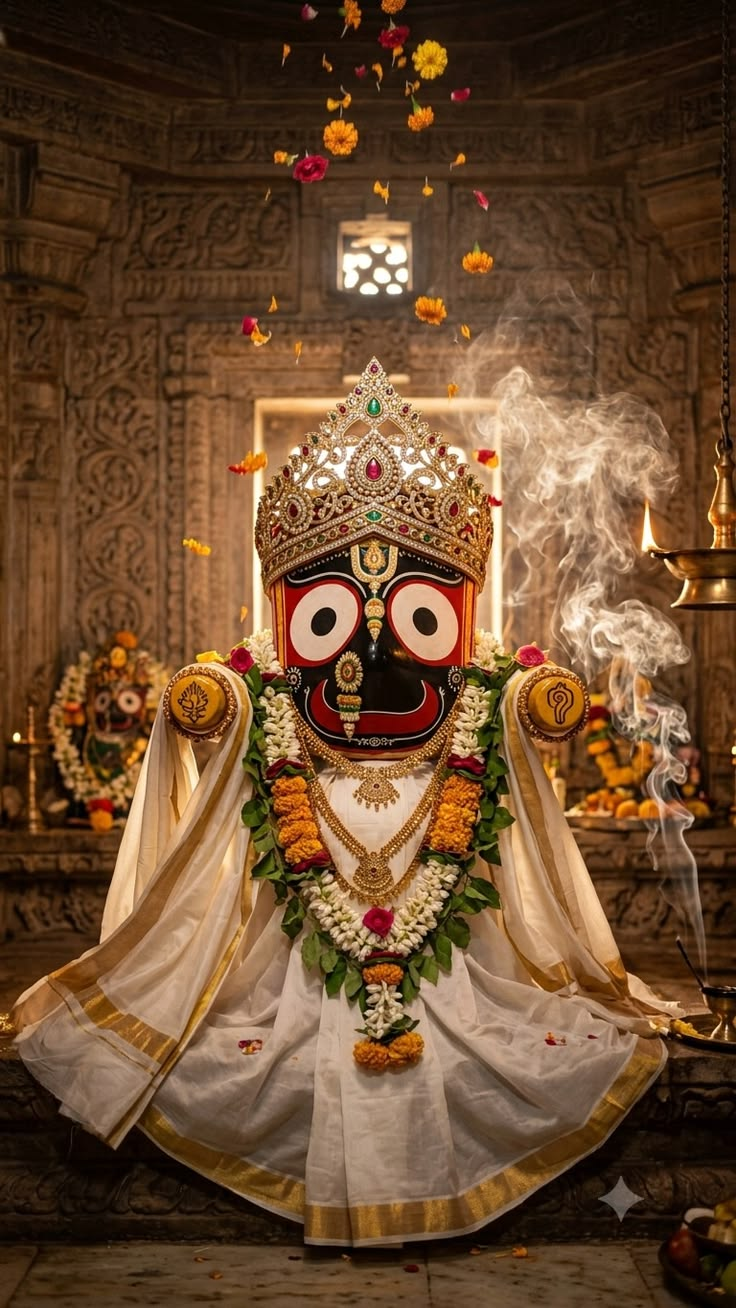
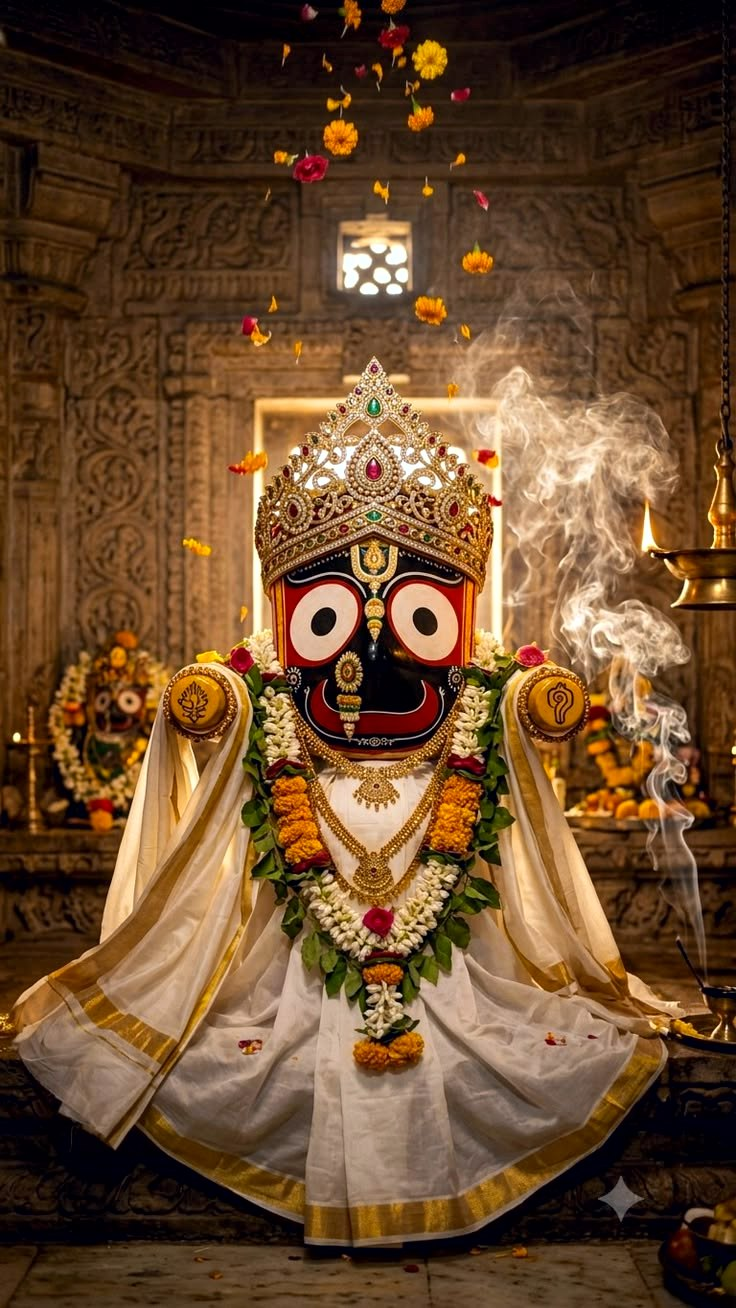
Opening: temple and Jagannath photos now read as one scene
- Jagannath photo colour-matched to the temple photo (Reinhard colour
  transfer in Lab, measured on the temple's stone and floor, not its sky):
  warmer golden sandstone and sunlit cream robes; face and colours keep
  their character. The invitation medallion uses the same file.
- Lamp-lit sanctum: soft dark edges on the inner scene, so it reads as lit
  from within and seen through the temple's dark doorway
- After the doors open, the camera moves all the way in until the sanctum
  fills the screen, just like the temple did (no small rectangle on dark)
- Medallion lift-out clip uses the doorway's on-screen width; landing
  still pixel-exact

diff --git a/src/components/opening/OpeningSequence.tsx b/src/components/opening/OpeningSequence.tsx
@@ -158,7 +158,7 @@ export function OpeningSequence({ targetRef, onReveal, onDone }: OpeningSequence
         el.flyer.style.opacity = "1";
         // Start clipped to the doorway width (the circle can be wider than a
         // narrow door), then open out to the full medallion as it lifts away.
-        const doorHalf = el.sanctum.offsetWidth / 2;
+        const doorHalf = Math.min(el.sanctum.getBoundingClientRect().width, window.innerWidth) / 2;
         const startClip = `circle(${Math.min(50, (doorHalf / from.size) * 100).toFixed(2)}% at 50% 50%)`;
         el.flyerArt.style.clipPath = startClip;
 
@@ -245,7 +245,9 @@ export function OpeningSequence({ targetRef, onReveal, onDone }: OpeningSequence
       // Doors appear exactly over the photo's doorway…
       const startScale = (door.width * zoom) / el.sanctum.offsetWidth;
       const small = `translate(-50%, -50%) scale(${startScale})`;
-      const full = "translate(-50%, -50%) scale(1)";
+      // Move all the way in: the sanctum ends up filling the screen, like the temple did.
+      const cover = Math.max(window.innerWidth / el.sanctum.offsetWidth, window.innerHeight / el.sanctum.offsetHeight) * 1.02;
+      const full = `translate(-50%, -50%) scale(${cover})`;
       await play(el.sanctum, [{ opacity: 0, transform: small }, { opacity: 1, transform: small }], {
         duration: 350,
         easing: "ease-out",
@@ -256,7 +258,7 @@ export function OpeningSequence({ targetRef, onReveal, onDone }: OpeningSequence
 
       // …then the camera moves in through the doorway to the deity.
       // Camera and doorway grow by the same factor, so they stay locked together.
-      const grow = 1 / startScale;
+      const grow = cover / startScale;
       await Promise.all([
         play(el.camera, [{ transform: `${shift} scale(${zoom})` }, { transform: `${shift} scale(${zoom * grow})` }], {
           duration: T.pushIn,
@@ -437,6 +439,15 @@ export function OpeningSequence({ targetRef, onReveal, onDone }: OpeningSequence
                 </div>
               )}
             </div>
+
+            {/* Lamp-lit sanctum: soft dark edges, so the inner scene reads as lit
+                from within and seen through the temple's dark doorway. */}
+            {PHOTO && (
+              <div
+                className="pointer-events-none absolute inset-0"
+                style={{ background: "radial-gradient(ellipse 75% 65% at 50% 42%, transparent 55%, rgb(20 11 7 / 0.72) 100%)" }}
+              />
+            )}
 
             <div
               ref={flashRef}
